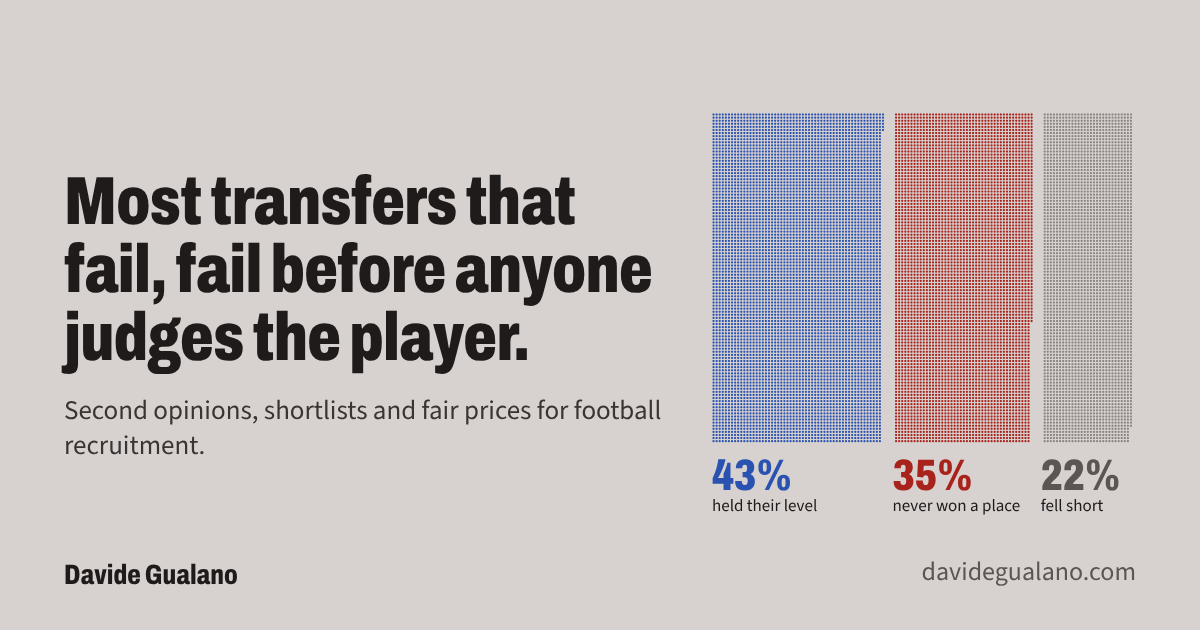
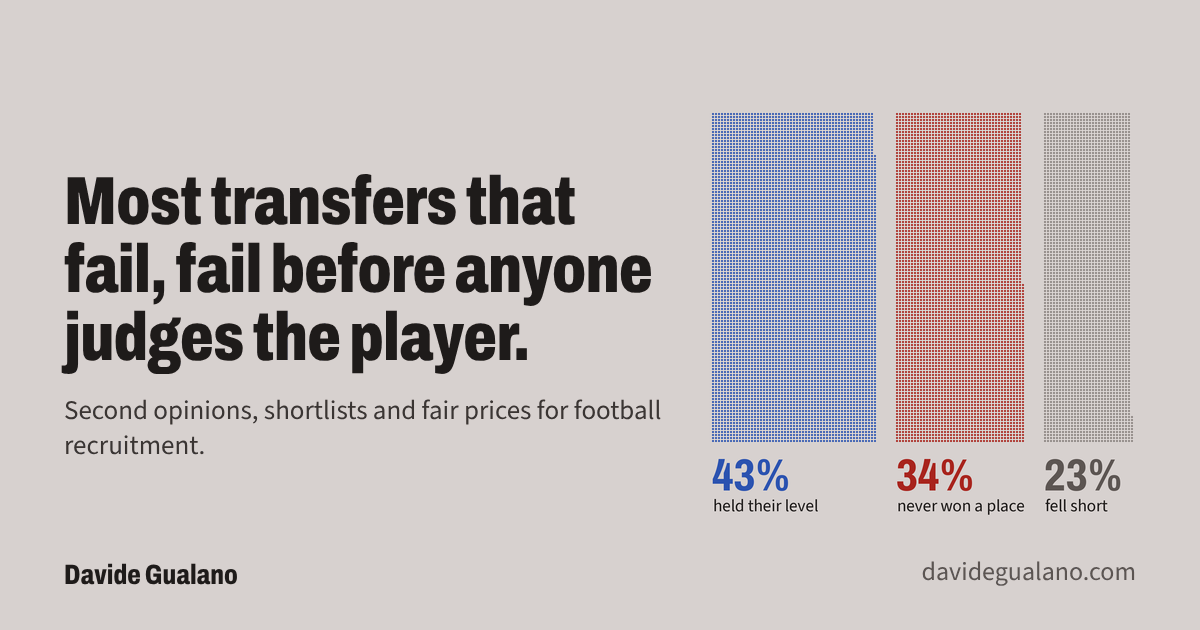
Method page: November model changes, stack, links to the posts; share image 43 / 34 / 23
Claude-Session: https://claude.ai/code/session_01Q8gQDYrYBMNU6CGt6sAhKp

Changed region(s): [[0.5858, 0.181, 0.9558, 0.8143]]

diff --git a/method.html b/method.html
@@ -40,24 +40,24 @@
 
 <section class="method method-page" aria-labelledby="method-title">
   <h1 id="method-title">The method, for analysts and hiring teams</h1>
-  <p class="intro">I'd like to work on recruitment models and the visual side of how clubs read them. In October 2026 I rebuilt my whole event-data pipeline after finding bugs in the coordinate frame, the match clock and the VAEP formula, and re-ran everything on top of it. My transfer-corridor piece retracted one of its own March claims. That's how I'd work on your data too.</p>
+  <p class="intro">I'd like to work on recruitment models and the visual side of how clubs read them. In October 2026 I rebuilt my whole event-data pipeline after finding bugs in the coordinate frame, the match clock and the VAEP formula, and re-ran everything on top of it. My transfer-corridor piece retracted one of its own March claims. In November 2026 I tested every model again: action value is now a sequence model that reads the last 32 actions, expected goals lost its calibration layer, expected passes and the price model changed learner, and the published numbers were re-run. That's how I'd work on your data too.</p>
 
   <ul class="methods">
     <li><h3>Transfer success by league</h3><p>Six seasons of moves against an intra-league control group: which leagues' players hold their level, and why most failures are about minutes.</p><a href="https://the-cutback.beehiiv.com/p/transfer-success-rates-by-league-v2">Read</a> <span class="when">September 2026; the re-run is out in December</span></li>
     <li><h3>Fair transfer price</h3><p>Worth learned from market values, then calibrated on 3,226 real fees: selling league, age, window, football inflation, and the one buyer that changes a fee most, a Premier League club. Two prices per player and their mix. Backtested window by window.</p><a href="https://the-cutback.beehiiv.com/p/transfermarkt-value-model">Read</a> <a href="https://what-would-he-cost.streamlit.app">Use the app</a></li>
     <li><h3>Squad needs</h3><p>What a squad is short of, read from its own numbers: a quality that lags what a paired quality implies, checked against teams that play the same way and kept only if it repeats.</p><a href="https://the-cutback.beehiiv.com/p/what-juventus-are-short-of">Read</a> <span class="when">October 2026</span></li>
-    <li><h3>Position clustering</h3><p>Roles from where and how players act, not from team sheets: the role behind every comparison I make.</p></li>
-    <li><h3>Team style similarity</h3><p>Which teams play like yours, from possession and pressing maps, so needs are measured against real peers.</p></li>
-    <li><h3>Dixon-Coles ratings</h3><p>Team strength from my own xG model plus the threat a team builds before the shot, comparable across leagues: how I translate a player's numbers from one league to another.</p></li>
+    <li><h3>Position clustering</h3><p>Roles from where and how players act, not from team sheets: the role behind every comparison I make.</p><a href="https://the-cutback.beehiiv.com/p/improved-player-position-clustering-football-analysis">Read</a> <span class="when">May 2025: an earlier version, the method has changed since</span></li>
+    <li><h3>Team style similarity</h3><p>Which teams play like yours, from possession and pressing maps, so needs are measured against real peers.</p><a href="https://the-cutback.beehiiv.com/p/team-style-similarity-football-recruitment-analytics">Read</a> <span class="when">March 2025: an earlier version, the method has changed since</span></li>
+    <li><h3>Dixon-Coles ratings</h3><p>Team strength from my own xG model plus the threat a team builds before the shot, comparable across leagues: how I translate a player's numbers from one league to another.</p><a href="https://the-cutback.beehiiv.com/p/dixon-coles-global-ratings-cross-league-player-comparisons">Read</a> <span class="when">March 2025: an earlier version, the method has changed since</span></li>
     <li><h3>Defensive value</h3><p>What a defender's zone concedes, from convex hulls and VAEP. I tested whether it rates the defender or his team: it mostly follows the team and doesn't carry to a new club, so I read it as context, not as a rating. Event data struggles with defending, and I say where.</p></li>
     <li><h3>Standstill take-ons</h3><p>Two proxies for beating a man from a standing start. The simple one was the more repeatable.</p><a href="https://the-cutback.beehiiv.com/p/simple-vs-complex-standstill-take-on-proxy">Read</a> <span class="when">February 2026, before the rebuild</span></li>
     <li><h3>Explosive carries</h3><p>An acceleration proxy from event data, compared against Gradient's tracking data: the La Liga outliers largely match.</p><a href="https://the-cutback.beehiiv.com/p/explosive-carries-proxy-event-data-la-liga">Read</a> <span class="when">February 2026, before the rebuild</span></li>
     <li><h3>Passing skill</h3><p>Two passing skills: security (a Bayesian model of how much more than expected a player completes) and value (what the passes he picks are worth, the one that predicts next season). Shooters, keepers and duels in the same framework.</p></li>
-    <li><h3>Tracking data</h3><p>Peak velocity, and why one number isn't enough; off-ball runs three seconds before the pass. Both on Gradient's free World Cup 2022 data.</p></li>
+    <li><h3>Tracking data</h3><p>Peak velocity, and why one number isn't enough; off-ball runs three seconds before the pass. Both on Gradient's free World Cup 2022 data.</p><a href="https://the-cutback.beehiiv.com/p/peak-velocity-football-tracking-data-scouting">Peak velocity</a> <a href="https://the-cutback.beehiiv.com/p/off-ball-movement-football-tracking-data">Off-ball runs</a> <span class="when">March and April 2026</span></li>
   </ul>
 
   <div class="hire">
-    <p>Stack: Python, pandas, scikit-learn, Streamlit, VAEP and xG modelling, data visualisation. Hudl StatsBomb certifications in recruitment and video analysis. Italian and English.</p>
+    <p>Stack: Python, pandas, PyTorch, XGBoost, CatBoost, LightGBM, scikit-learn, Streamlit, VAEP and xG modelling, data visualisation. Hudl StatsBomb certifications in recruitment and video analysis. Italian and English.</p>
     <a class="btn btn-line" href="https://www.linkedin.com/in/davide-gualano-a2454b187">My experience on LinkedIn</a>
   </div>
 </section>
